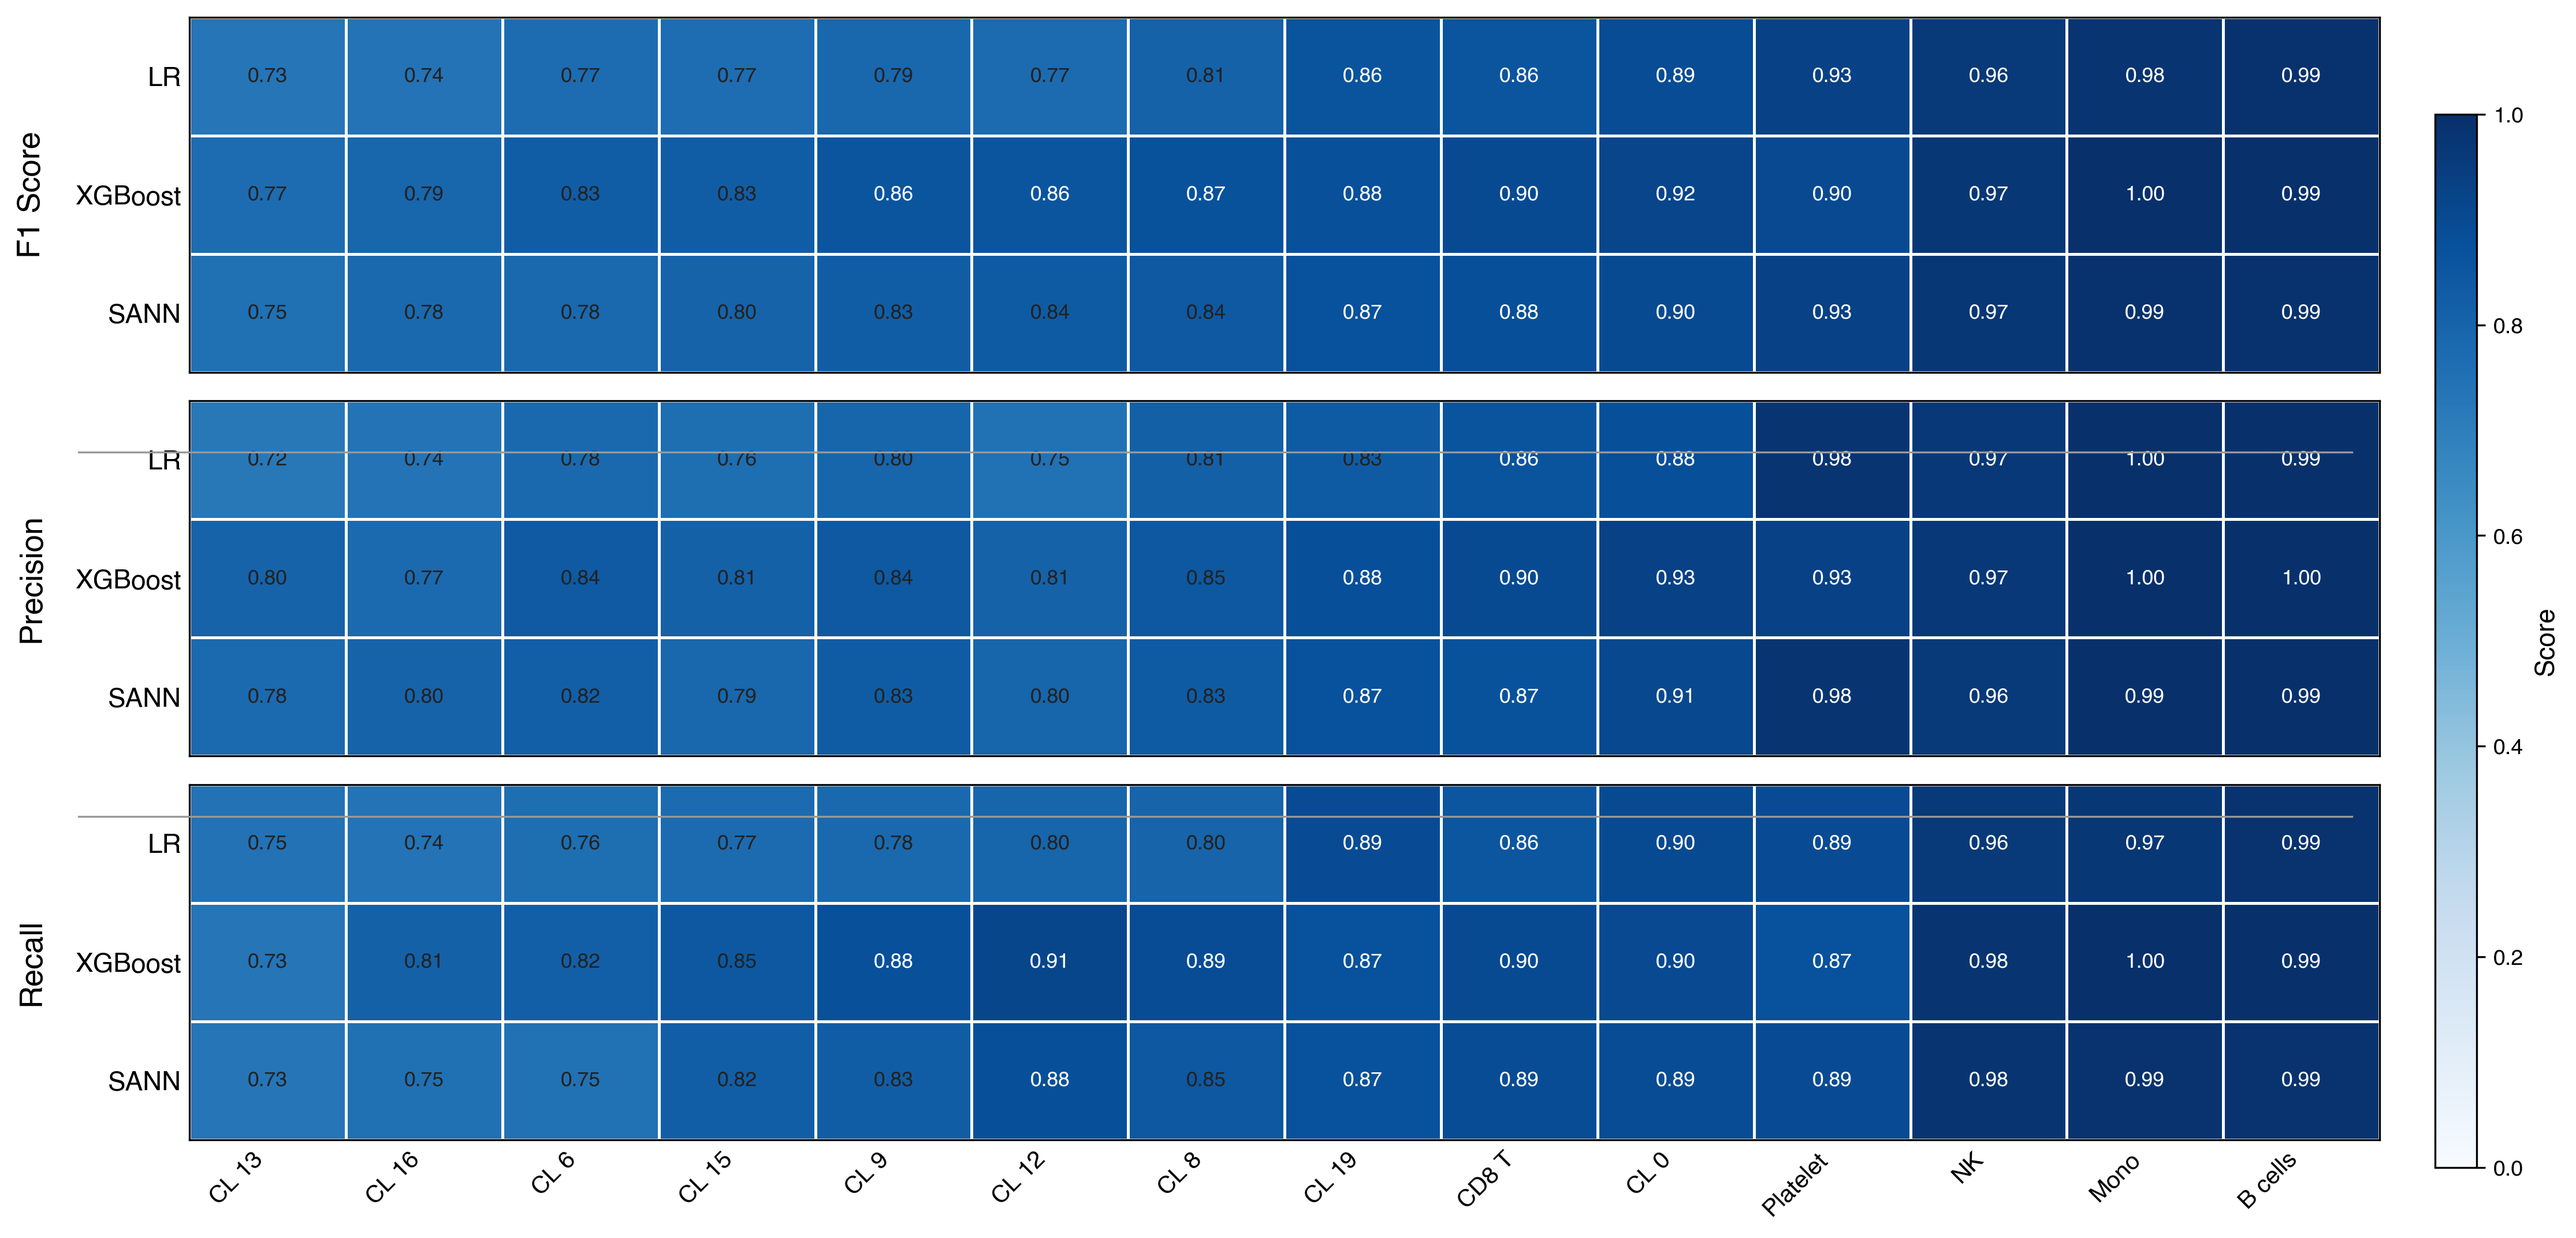
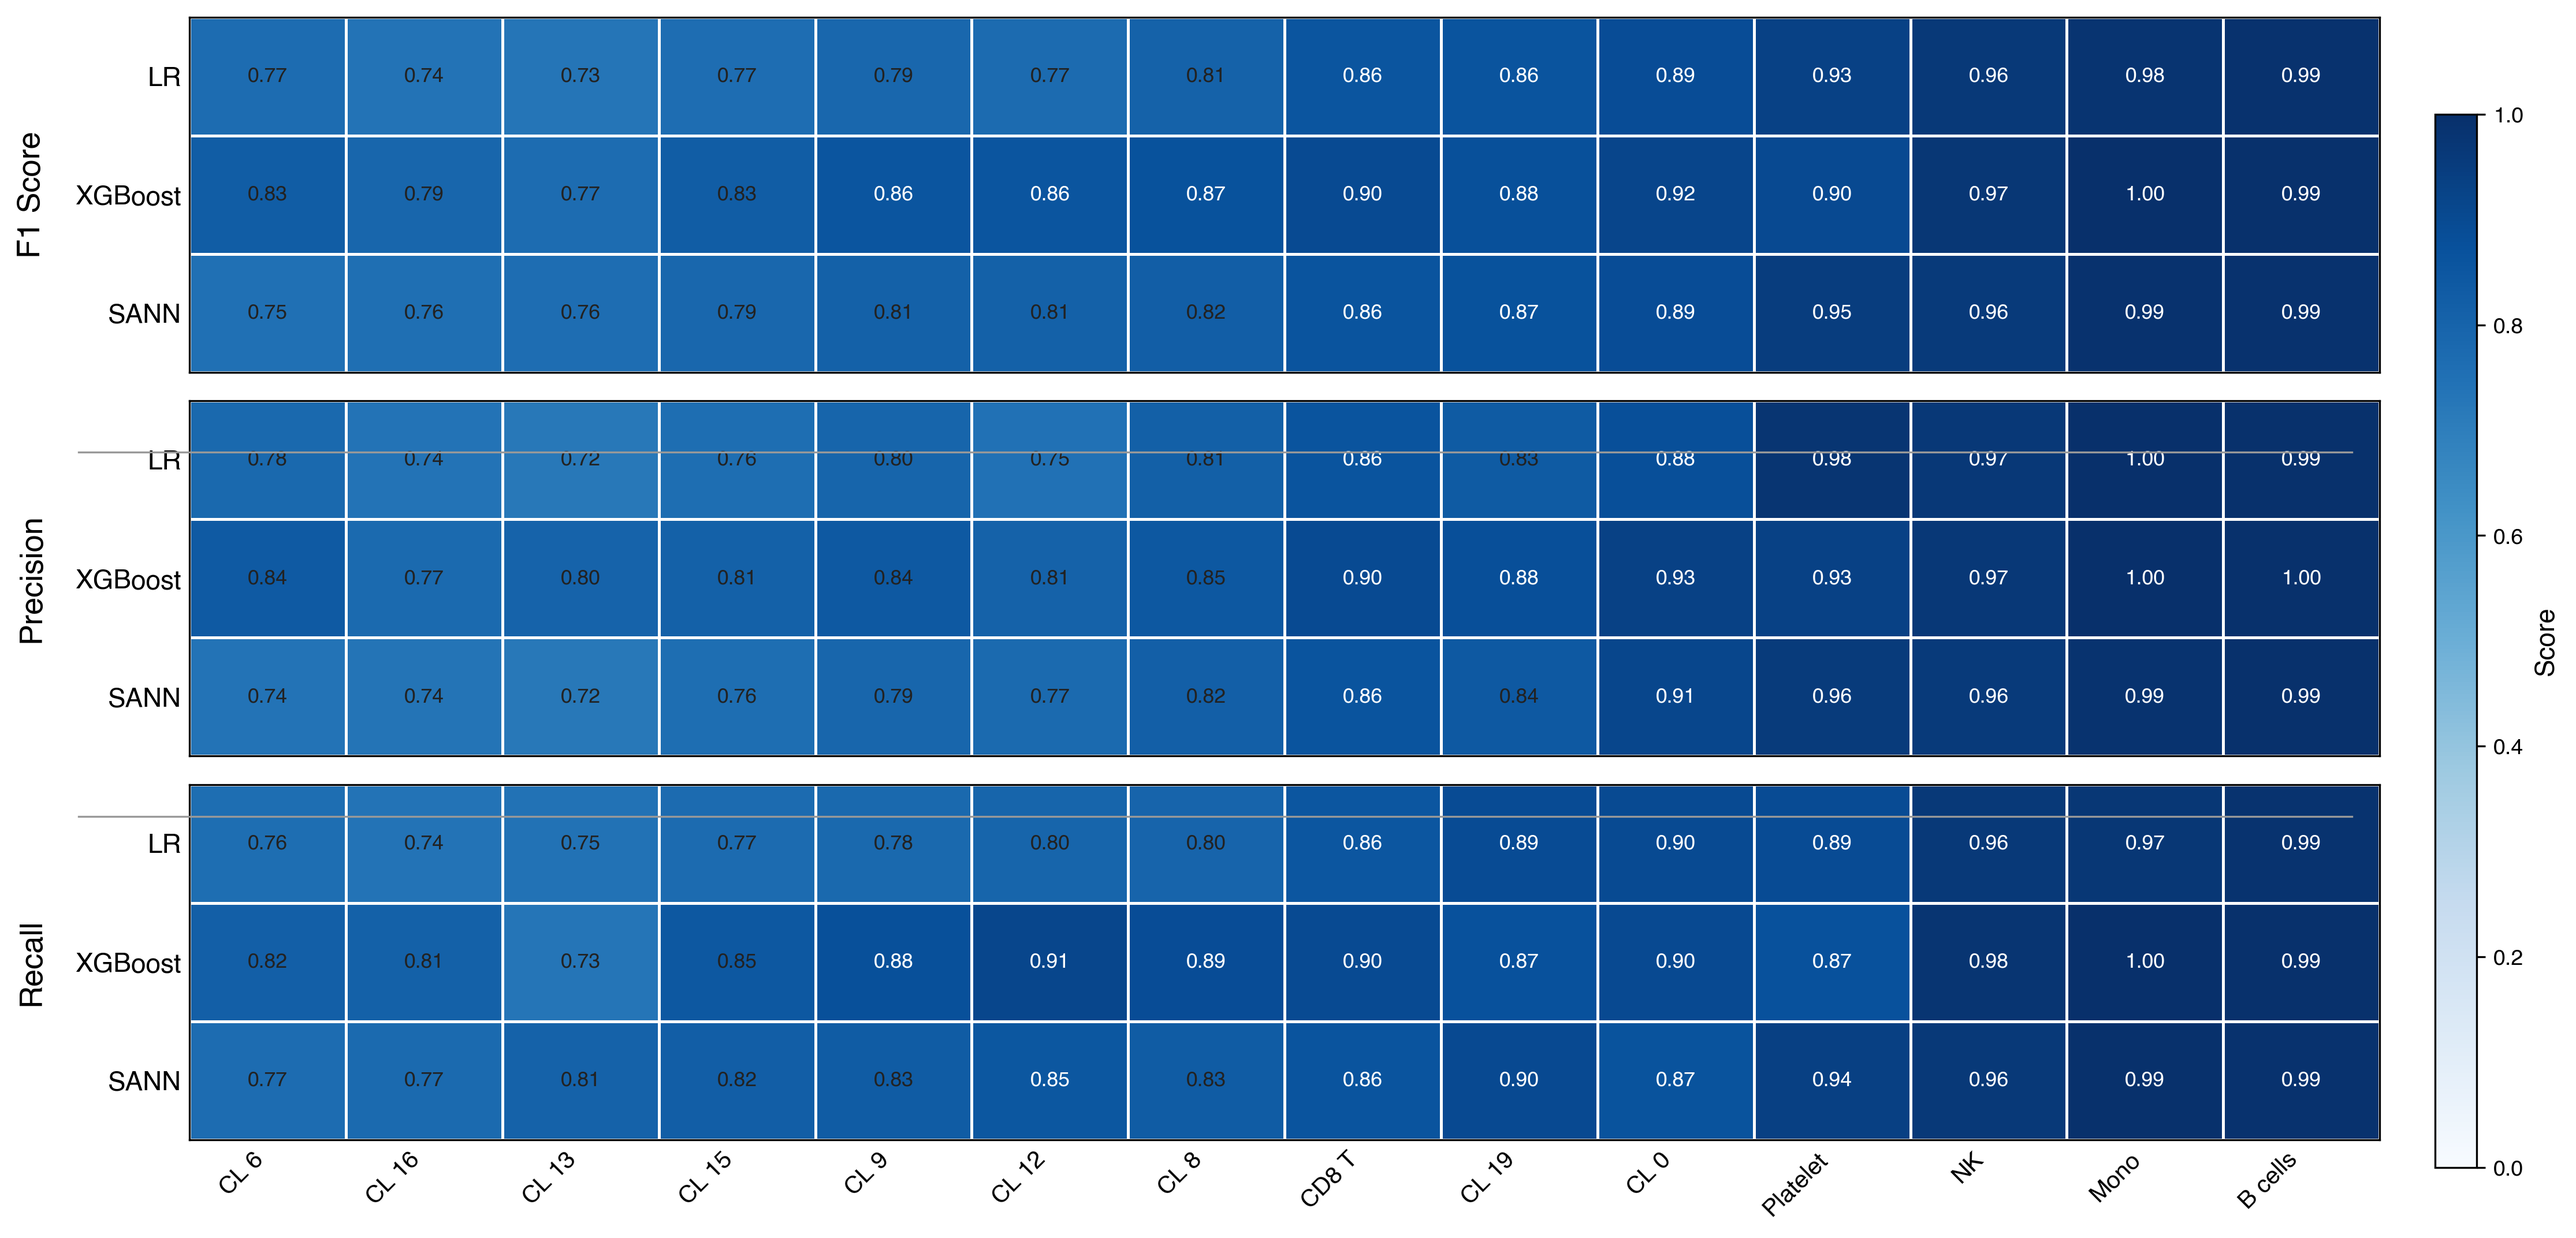
Heatmap re rean

diff --git a/src/plot_per_class_heatmap.py b/src/plot_per_class_heatmap.py
@@ -117,15 +117,27 @@ def main():
             ax.axhline(edge - 0.5, color="white", linewidth=1.2)
 
         # Annotate cells
+        # For the PCA panel we want larger white labels (Abdullah's spec);
+        # HVG keeps the original contrast-aware styling.
+        if args.rep == "pca":
+            cell_fontsize = 11
+            cell_fontweight = "semibold"
+        else:
+            cell_fontsize = 8.5
+            cell_fontweight = "medium"
+
         for row in range(3):
             for col in range(n_classes):
                 val = data[row, col]
-                txt_color = "white" if val > 0.85 else "#222222"
+                if args.rep == "pca":
+                    txt_color = "white"
+                else:
+                    txt_color = "white" if val > 0.85 else "#222222"
                 ax.text(
                     col, row, f"{val:.2f}",
                     ha="center", va="center",
-                    fontsize=8.5, color=txt_color,
-                    fontweight="medium",
+                    fontsize=cell_fontsize, color=txt_color,
+                    fontweight=cell_fontweight,
                 )
 
         # Y-axis: model names
@@ -144,17 +156,6 @@ def main():
             ax.set_xticklabels([])
 
         ax.tick_params(length=0)
-
-    # Horizontal separator lines between panels
-    for idx in range(2):
-        line_y = axes[idx].get_position().y0
-        fig.add_artist(
-            plt.Line2D(
-                [0.06, 0.88], [line_y, line_y],
-                transform=fig.transFigure,
-                color="#999999", linewidth=0.8,
-            )
-        )
 
     # Shared colourbar
     cbar_ax = fig.add_axes([0.91, 0.12, 0.015, 0.76])
